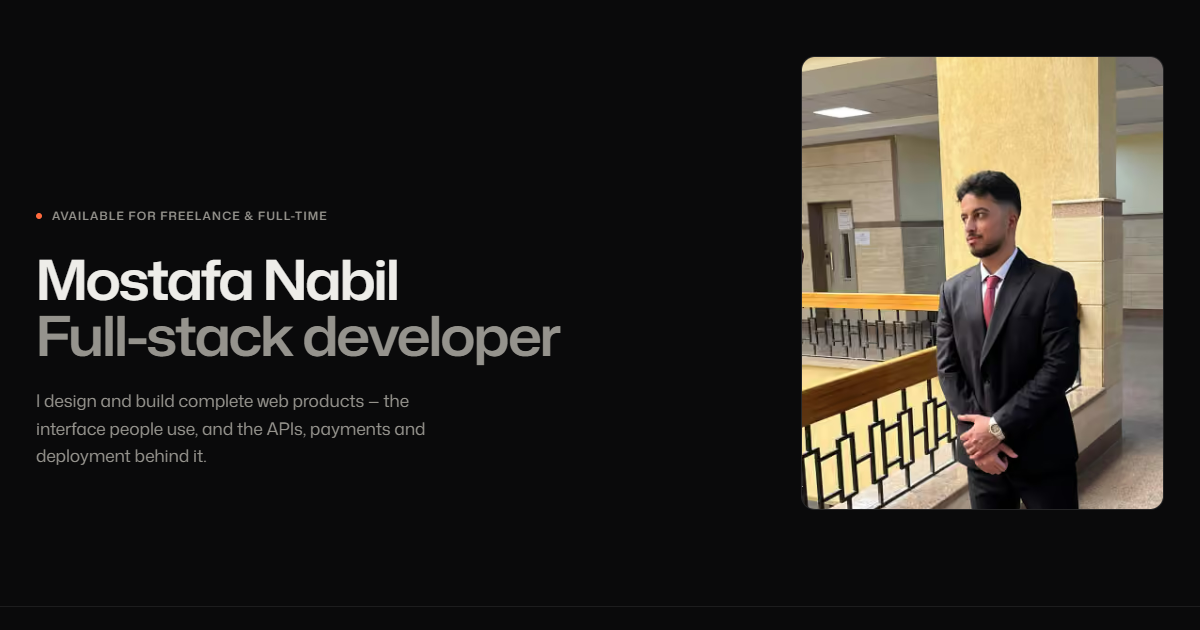
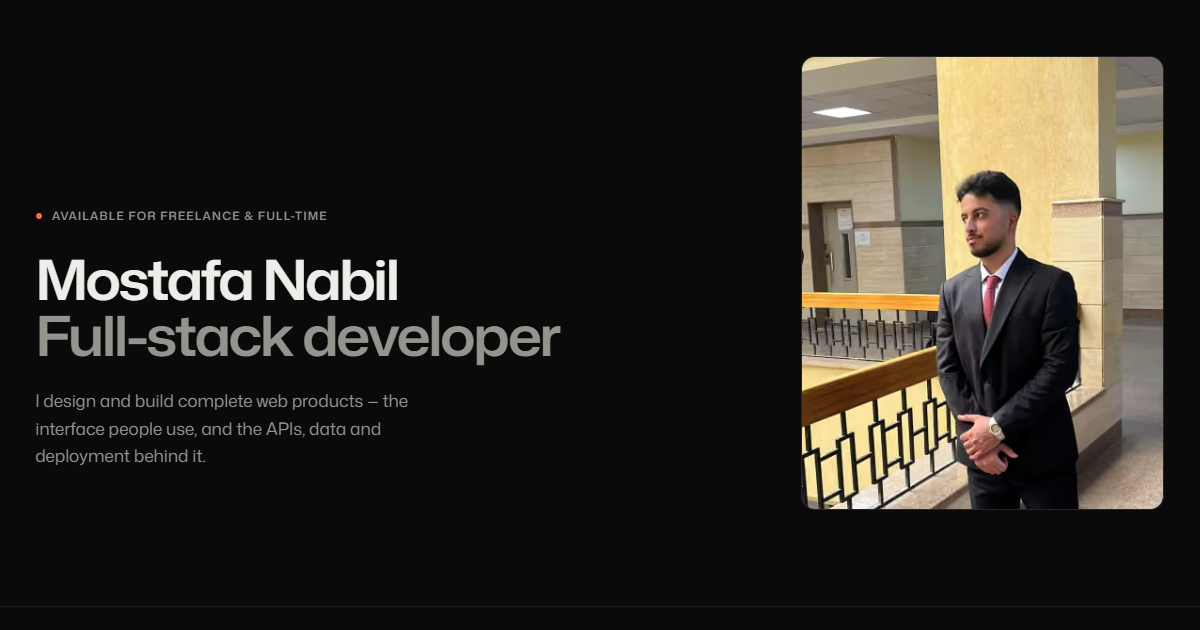
Remove payments from the portfolio
Drop Paymob/Stripe and payment claims from the hero, about, capabilities,
site description and every case study. Sections that depended on payments
now describe server-side pricing, stock reservations and idempotent orders
instead. Also drop the unsupported "Shipping integrations" capability and
refresh the share image with the new hero line.

Changed region(s): [[0.0308, 0.6333, 0.37, 0.754]]

diff --git a/src/content/projects.ts b/src/content/projects.ts
@@ -92,7 +92,7 @@ export const projects: Project[] = [
     summary:
       "Memberships, class booking and an admin dashboard for a gym with several branches — in English and Arabic.",
     role: "Design & full-stack development",
-    scope: ["Interface design", "Frontend", "API & data model", "Payments", "Deployment"],
+    scope: ["Interface design", "Frontend", "API & data model", "Deployment"],
     stack: ["Next.js", "NestJS", "MongoDB"],
     links: {
       live: "https://prime-x-dusky.vercel.app",
@@ -107,18 +107,18 @@ export const projects: Project[] = [
       "The whole product works in English and Arabic — with a genuinely right-to-left layout, not a translated left-to-right one.",
     ],
     problem: [
-      "A gym’s offer is more complicated than a price list. Plans differ by branch access, class credits, freeze days and guest passes; classes have a fixed number of places; and a lot of the business still happens at the front desk, in cash, over WhatsApp.",
+      "A gym’s offer is more complicated than a price list. Plans differ by branch access, class credits, freeze days and guest passes; classes have a fixed number of places; and a lot of the business still happens at the front desk and over WhatsApp.",
       "The site had to sell memberships clearly without pretending the gym is an online-only business — and staff needed one place to see a member’s entire history.",
     ],
     solution: [
       "I modelled the gym the way it actually operates — branches, plans, trainers, class types and recurring weekly schedules — and built every page on top of that model instead of around static content.",
-      "The join flow takes card payments through Paymob or records cash paid at the desk. Each member-facing capability sits behind its own feature flag on both frontend and backend, so the gym could launch as a showcase that routes enquiries to WhatsApp, with online sales and booking ready to switch on without a rebuild.",
+      "Each member-facing capability — joining online, class booking and member accounts — sits behind its own feature flag on both frontend and backend, so the gym could launch as a showcase that routes enquiries to WhatsApp, with the full join-and-book flow ready to switch on without a rebuild.",
     ],
     features: [
-      { title: "Plans & join funnel", text: "Class-credit or unlimited plans, single- or all-branch tiers, freeze days and guest passes. Pay by card, or in cash at the desk." },
+      { title: "Plans & join funnel", text: "Class-credit or unlimited plans, single- or all-branch tiers, freeze days and guest passes, with a guided join flow from plan to account." },
       { title: "Timetable & booking", text: "Sessions generated from weekly rules. Booking can never exceed capacity, and credits come back when a class is cancelled." },
-      { title: "Member account", text: "Membership status, upcoming and past classes, payment history, profile and notification settings." },
-      { title: "Admin dashboard", text: "KPIs, branches, plans, trainers and schedules; members with their full history; cash payments, content editing, an enquiry inbox and an audit log." },
+      { title: "Member account", text: "Membership status, upcoming and past classes, profile and notification settings." },
+      { title: "Admin dashboard", text: "KPIs, branches, plans, trainers and schedules; members with their full history; content editing, an enquiry inbox and an audit log." },
       { title: "English & Arabic", text: "Two languages with a right-to-left layout designed for Arabic, not mirrored as an afterthought." },
       { title: "Accounts", text: "Email and password with OTP verification, Google sign-in and password reset." },
     ],
@@ -126,21 +126,20 @@ export const projects: Project[] = [
       text: "A Next.js App Router frontend on Vercel talks to a NestJS API on Render, backed by MongoDB Atlas. The split is deliberate: the API runs scheduled jobs in-process, which needs a long-lived server that a serverless platform would never keep awake.",
       flow: webFlow("App Router", "REST"),
       services: [
-        { label: "Paymob", detail: "Card payments, HMAC-verified callbacks" },
         { label: "Brevo", detail: "Transactional email over HTTP" },
         { label: "Google", detail: "OAuth sign-in" },
       ],
       decisions: [
         { title: "No overselling, even under load", text: "A booking claims its seat with one conditional update that only succeeds while the booked count is below capacity. Two members racing for the last place can’t both win." },
         { title: "Sessions that rotate", text: "Tokens live in httpOnly cookies with per-device refresh-token rotation and reuse detection. Deactivated accounts are rejected on every rotation, not just at login." },
-        { title: "Flags, not forks", text: "Membership sales, class booking and member accounts are each gated separately — which is how one codebase runs today in showcase mode." },
+        { title: "Flags, not forks", text: "Online joining, class booking and member accounts are each gated separately — which is how one codebase runs today in showcase mode." },
         { title: "Email that arrives", text: "Free Render instances block SMTP ports, so production mail goes through Brevo’s HTTP API and the active transport is logged at startup." },
       ],
     },
     stackDetail: [
       { group: "Frontend", items: ["Next.js 16", "React 19", "TypeScript", "TanStack Query", "Tailwind CSS v4", "shadcn/ui", "next-intl"] },
       { group: "Backend", items: ["NestJS 10", "MongoDB & Mongoose", "Passport (JWT, Google)", "Zod", "Swagger", "Scheduled jobs"] },
-      { group: "Services", items: ["Paymob", "Brevo", "Nodemailer"] },
+      { group: "Services", items: ["Brevo", "Nodemailer"] },
       { group: "Infrastructure", items: ["Vercel", "Render", "MongoDB Atlas"] },
     ],
     screens: [
@@ -164,11 +163,11 @@ export const projects: Project[] = [
     challenges: [
       { title: "Cross-site cookies in production", text: "Locally the site and API share localhost. Deployed, they sit on different domains and every request becomes cross-site — Lax cookies silently stopped being sent, so login appeared to work and everything after it failed. Cookies now switch to SameSite=None; Secure in production." },
       { title: "Images that pointed at a laptop", text: "Early data stored absolute localhost image URLs, which in production resolved to the visitor’s own machine. Images are now root-relative, and a script checks every path in the database against committed files before each deploy." },
-      { title: "Selling before selling", text: "The gym wasn’t ready to take payments online on day one. Gating each capability separately let it launch with WhatsApp enquiries, without dead pages or a second codebase." },
+      { title: "Launching before everything is on", text: "The gym wanted to go live before running memberships online. Gating each capability separately let it launch with WhatsApp enquiries, without dead pages or a second codebase." },
     ],
     result: [
       "PrimeX is live as a bilingual showcase site, with the complete online join-and-book flow built and ready to switch on.",
-      "Its foundations — authentication, payments, the admin area and the deployment setup — became the base I build new products on.",
+      "Its foundations — authentication, the admin area and the deployment setup — became the base I build new products on.",
     ],
   },
   {
@@ -178,10 +177,10 @@ export const projects: Project[] = [
     kind: "Full-stack e-commerce",
     year: "2026",
     summary:
-      "A complete online store — catalogue, cart, Stripe checkout and an admin API — seeded with a real-sized catalogue.",
+      "A complete online store — catalogue, cart, checkout and an admin API — seeded with a real-sized catalogue.",
     role: "Full-stack development",
-    scope: ["Frontend", "REST API", "Payments", "Email", "Deployment"],
-    stack: ["Next.js", "NestJS", "Stripe"],
+    scope: ["Frontend", "REST API", "Email", "Deployment"],
+    stack: ["Next.js", "NestJS", "MongoDB"],
     links: {
       live: "https://novacart-acme-4d41.vercel.app",
       github: "https://github.com/mostafanabil11/E-commerce",
@@ -195,31 +194,29 @@ export const projects: Project[] = [
       "It ships with a seed dataset — 56 products across 10 categories, 60 subcategories and 54 brands, with 332 reviews — so a fresh clone is a fully stocked shop rather than an empty template.",
     ],
     problem: [
-      "Most portfolio stores stop at the product grid. The hard parts of commerce live elsewhere: prices the client can’t tamper with, stock that stays correct, payments confirmed by the provider instead of the browser, and accounts and emails that behave like a real shop’s.",
+      "Most portfolio stores stop at the product grid. The hard parts of commerce live elsewhere: prices the client can’t tamper with, stock that stays correct, catalogue data that can’t be lost by accident, and accounts and emails that behave like a real shop’s.",
     ],
     solution: [
-      "The API owns every number that matters. Carts are priced on the server with stock checks and coupons; orders reserve inventory when they’re placed and count a sale only once payment settles.",
-      "Checkout hands off to Stripe, and the order is confirmed by a signature-verified webhook — idempotently, so a replayed event changes nothing.",
+      "The API owns every number that matters. Carts are priced on the server with stock checks and coupons, and orders reserve inventory the moment they’re placed.",
+      "Around that core sit the parts a real shop needs: catalogue records that are soft-deleted with an audit trail, ratings kept current on every review, and an optional Redis cache the API can run without.",
     ],
     features: [
       { title: "Catalogue", text: "Live search, category and brand filters, sorting by price, rating, newest and best-selling, with pagination." },
       { title: "Product pages", text: "Image galleries with thumbnails, ratings and related products." },
       { title: "Cart & wishlist", text: "Server-calculated totals, stock checks and coupon support." },
-      { title: "Checkout", text: "Validated shipping details, then Stripe Checkout. Paymob is integrated on the API as well." },
+      { title: "Checkout", text: "Validated delivery details and order totals calculated by the server." },
       { title: "Accounts", text: "Sign-up, email verification that never blocks sign-in, and a three-step password reset." },
-      { title: "Admin API", text: "Catalogue management with image upload, soft deletes with restore, audit trails, order status and refunds." },
+      { title: "Admin API", text: "Catalogue management with image upload, soft deletes with restore, audit trails and order status management." },
     ],
     architecture: {
       text: "A Next.js 15 storefront on Vercel and a NestJS 11 API on Render with MongoDB. Redis caching is optional — the API keeps working when it isn’t there.",
       flow: webFlow("Storefront", "REST v1"),
       services: [
-        { label: "Stripe", detail: "Checkout + signed webhooks" },
-        { label: "Paymob", detail: "HMAC-SHA512 callbacks" },
         { label: "Brevo", detail: "EJS email templates" },
         { label: "Redis", detail: "Optional cache" },
       ],
       decisions: [
-        { title: "Webhooks are the source of truth", text: "Stripe events are verified against the raw request body and Paymob callbacks with HMAC-SHA512 before anything changes. Settlement is idempotent." },
+        { title: "Totals the browser can’t touch", text: "Carts are priced on the server against current prices, stock and coupons, so nothing the client sends can change what an order costs." },
         { title: "Ratings stored, not computed", text: "Each product keeps its average rating and review count, recalculated on every review write, so listing pages never aggregate on read." },
         { title: "Nothing is really deleted", text: "Catalogue records are soft-deleted, can be restored, and keep a trail of who created, changed or removed them." },
         { title: "A cache that can disappear", text: "Redis speeds up hot reads when it’s available; when it isn’t, requests fall through to MongoDB instead of failing." },
@@ -228,7 +225,7 @@ export const projects: Project[] = [
     stackDetail: [
       { group: "Frontend", items: ["Next.js 15", "React 19", "TypeScript", "Tailwind CSS v4", "shadcn/ui", "NextAuth", "React Hook Form", "Zod", "Framer Motion"] },
       { group: "Backend", items: ["NestJS 11", "MongoDB & Mongoose", "JWT & bcrypt", "class-validator", "Multer", "ioredis", "Swagger"] },
-      { group: "Services", items: ["Stripe", "Paymob", "Brevo"] },
+      { group: "Services", items: ["Brevo", "Redis"] },
       { group: "Infrastructure", items: ["Vercel", "Render", "MongoDB"] },
     ],
     screens: [
@@ -244,12 +241,12 @@ export const projects: Project[] = [
       },
     ],
     challenges: [
-      { title: "Trusting the right party", text: "A successful redirect back from Stripe proves nothing. Orders become paid only when a verified webhook says so, and duplicate deliveries are ignored." },
+      { title: "Stock you can believe", text: "Inventory is reserved as soon as an order is placed, not later, so the stock a shopper sees is stock that’s actually available." },
       { title: "Verification without friction", text: "A code is emailed at sign-up, but the account is usable immediately; a dismissible banner nudges instead of a wall that loses customers." },
       { title: "A store you can reproduce", text: "A versioned catalogue snapshot with local imagery rebuilds the whole shop from one command — the difference between a demo and a working product." },
     ],
     result: [
-      "NovaCart works end to end: browse, add to cart, pay with Stripe in test mode and receive a confirmed order — with Swagger documentation for every endpoint.",
+      "NovaCart works end to end: browse, search, add to cart and place an order — with Swagger documentation for every endpoint.",
     ],
   },
   {
@@ -259,10 +256,10 @@ export const projects: Project[] = [
     kind: "Restaurant ordering",
     year: "2026",
     summary:
-      "Direct online ordering for a restaurant: a customisable menu, guest checkout, card or cash on delivery, and order tracking.",
+      "Direct online ordering for a restaurant: a customisable menu, guest checkout and order tracking, in Arabic and English.",
     role: "Design & full-stack development",
-    scope: ["Interface design", "Frontend", "API & data model", "Payments", "Deployment"],
-    stack: ["Next.js", "NestJS", "Paymob"],
+    scope: ["Interface design", "Frontend", "API & data model", "Deployment"],
+    stack: ["Next.js", "NestJS", "MongoDB"],
     links: {
       live: "https://fire-house-wnhg.vercel.app",
       github: "https://github.com/mostafanabil11/fire-house",
@@ -273,7 +270,7 @@ export const projects: Project[] = [
     shotAlt: "Fire House homepage: burgers and loaded fries under the headline “Big flavour. Your way.”",
     overview: [
       "Fire House is an ordering website for a burger and fried-chicken kitchen — the kind of restaurant that gives away a share of every order to delivery apps.",
-      "Customers browse the menu, customise each dish, pay by card or cash on delivery and follow their order, without creating an account. The kitchen runs the menu, stock and orders from an admin area.",
+      "Customers browse the menu, customise each dish, place an order and follow it, without creating an account. The kitchen runs the menu, stock and orders from an admin area.",
     ],
     problem: [
       "A menu isn’t a product catalogue. The same burger can be ordered as a combo, loaded, with extra sauces or with a note for the kitchen — and every combination has its own price.",
@@ -281,21 +278,20 @@ export const projects: Project[] = [
     ],
     solution: [
       "I built menu items around variants and modifier groups — meal upgrades, add-ons and sauces — that the server resolves and prices. Each cart line is identified by a hash of the dish, its variant, its sorted options and its note, so identical meals merge and different ones stay separate.",
-      "Checkout reserves stock and creates orders idempotently. Cards go through Paymob with HMAC-verified callbacks; cash on delivery is a first-class option, not a fallback.",
+      "Checkout reserves stock and creates orders idempotently, so a double tap never becomes a second order — and guests can follow their order with nothing more than its number and their email.",
     ],
     features: [
       { title: "Customisable menu", text: "Categories, search, and dishes with variants, optional upgrades, add-ons and a note for the kitchen." },
-      { title: "Guest checkout", text: "Order without an account; sign in only for saved addresses and history." },
-      { title: "Card or cash", text: "Paymob card payments, or cash on delivery." },
+      { title: "Guest checkout", text: "Order without an account — checkout needs only delivery details." },
+      { title: "Optional accounts", text: "Sign in with email or Google for saved addresses and order history." },
       { title: "Order tracking", text: "Look up any order with its number and the email used at checkout." },
       { title: "Arabic & English", text: "A language switch across the whole storefront." },
       { title: "Kitchen admin", text: "Dashboard, menu and stock movements, orders, coupons, customers, reviews, settings and an audit log." },
     ],
     architecture: {
-      text: "The same split as my other commerce builds — Next.js on Vercel, NestJS on Render, MongoDB Atlas — with a scheduler in the API that releases stock held by abandoned card payments every minute.",
+      text: "The same split as my other commerce builds — Next.js on Vercel, NestJS on Render, MongoDB Atlas — with a scheduler in the API that releases stock held by unfinished checkouts every minute.",
       flow: webFlow("Storefront", "REST"),
       services: [
-        { label: "Paymob", detail: "Card payments, HMAC callbacks" },
         { label: "Brevo", detail: "Order emails" },
         { label: "Google", detail: "OAuth sign-in" },
       ],
@@ -303,13 +299,13 @@ export const projects: Project[] = [
         { title: "The server prices the meal", text: "The browser only sends identifiers. Prices, options and availability are re-read from the database on every cart change." },
         { title: "Deterministic cart lines", text: "A SHA-256 key over dish, variant, sorted modifiers and a normalised note decides whether two additions are the same line." },
         { title: "Idempotent orders", text: "Checkout carries an idempotency key, so a double tap or a retried request returns the existing order instead of creating a second one." },
-        { title: "Stock that comes back", text: "Card checkouts reserve stock; a scheduled job releases reservations from abandoned payments — the reason the API runs on a long-lived server." },
+        { title: "Stock that comes back", text: "Checkouts reserve stock; a scheduled job releases reservations that are never completed — the reason the API runs on a long-lived server." },
       ],
     },
     stackDetail: [
       { group: "Frontend", items: ["Next.js 16", "React 19", "TypeScript", "TanStack Query", "Zustand", "Tailwind CSS v4", "shadcn/ui", "React Hook Form"] },
-      { group: "Backend", items: ["NestJS 10", "MongoDB & Mongoose", "JWT with refresh rotation", "Google OAuth", "Zod", "Swagger", "Scheduled jobs"] },
-      { group: "Services", items: ["Paymob", "Brevo"] },
+      { group: "Backend", items: ["NestJS 10", "MongoDB & Mongoose", "JWT with refresh rotation", "Zod", "Swagger", "Scheduled jobs"] },
+      { group: "Services", items: ["Brevo", "Google OAuth"] },
       { group: "Infrastructure", items: ["Vercel", "Render", "MongoDB Atlas"] },
     ],
     screens: [
@@ -327,7 +323,7 @@ export const projects: Project[] = [
     ],
     challenges: [
       { title: "Customisation without chaos", text: "Letting people change everything about a dish multiplies the ways a price can go wrong. Resolving every option on the server, and validating each group’s rules there, kept the client simple and the totals exact." },
-      { title: "Abandoned payments", text: "A customer who opened the card form and walked away was holding stock hostage. Time-boxed reservations, released by a scheduled job, fixed it." },
+      { title: "Abandoned checkouts", text: "A customer who started checking out and walked away was holding stock hostage. Time-boxed reservations, released by a scheduled job, fixed it." },
       { title: "Email on free hosting", text: "Render’s free tier blocks SMTP, so order emails go out through Brevo’s HTTP API in production." },
     ],
     result: [
@@ -342,10 +338,10 @@ export const projects: Project[] = [
     kind: "Fashion e-commerce",
     year: "2026",
     summary:
-      "An online store for a monochrome clothing label — sizes and colours, sale pricing, card or cash checkout, and a full admin.",
+      "An online store for a monochrome clothing label — sizes and colours, sale pricing, customer accounts and a full admin.",
     role: "Design & full-stack development",
-    scope: ["Interface design", "Frontend", "API & data model", "Payments", "Deployment"],
-    stack: ["Next.js", "NestJS", "Paymob"],
+    scope: ["Interface design", "Frontend", "API & data model", "Deployment"],
+    stack: ["Next.js", "NestJS", "MongoDB"],
     links: {
       live: "https://valiant-seven.vercel.app",
       github: "https://github.com/mostafanabil11/Valiant-clothing-brand",
@@ -356,20 +352,20 @@ export const projects: Project[] = [
     shotAlt: "Valiant homepage: the wordmark above a black-and-white photo of tailored clothes on a rail.",
     overview: [
       "Valiant is an online store for a menswear and womenswear label with a quiet, monochrome identity.",
-      "It covers the whole commercial loop: a catalogue with sizes, colours and sale pricing; checkout by card or cash on delivery; order tracking; and an admin area for running the shop day to day.",
+      "It covers the whole commercial loop: a catalogue with sizes, colours and sale pricing; checkout with coupons; order tracking; and an admin area for running the shop day to day.",
     ],
     problem: [
-      "Fashion stores fail in the details — a size that’s sold out but still addable, a sale price that changes at checkout, an abandoned payment holding the last medium.",
+      "Fashion stores fail in the details — a size that’s sold out but still addable, a sale price that changes at checkout, an abandoned checkout holding the last medium.",
       "The brand also needed its restraint carried through every page, down to the size selector, not just the homepage.",
     ],
     solution: [
-      "I built a server-authoritative commerce core: the cart re-reads prices and stock on every change, checkout reserves inventory and creates orders idempotently, and Paymob payments are confirmed by HMAC-verified webhooks.",
+      "I built a server-authoritative commerce core: the cart re-reads prices and stock on every change, checkout reserves inventory and creates orders idempotently, so a retried request never becomes a second order.",
       "On top of it, the storefront keeps to the brand’s black-and-white, editorial language — type, spacing and photography doing the work colour usually does.",
     ],
     features: [
       { title: "Catalogue", text: "Men’s and women’s collections, categories and subcategories, search, filters and sale pricing." },
       { title: "Product pages", text: "Size selection, colours linked across products, and a size guide." },
-      { title: "Checkout", text: "Paymob card payments or cash on delivery, with coupons." },
+      { title: "Checkout", text: "Server-calculated totals with coupons and saved addresses." },
       { title: "Customer accounts", text: "OTP-verified sign-up, Google sign-in, saved addresses, order history and a wishlist." },
       { title: "Retention", text: "Reviews, newsletter sign-up and back-in-stock notifications." },
       { title: "Admin", text: "Dashboard, products and stock movements, orders, customers, coupons, reviews, settings and an audit log." },
@@ -378,21 +374,20 @@ export const projects: Project[] = [
       text: "Next.js 16 on Vercel, a NestJS API on Render and MongoDB Atlas. The server validates its environment on boot and refuses to start with a broken configuration.",
       flow: webFlow("Storefront", "REST"),
       services: [
-        { label: "Paymob", detail: "Card payments, HMAC callbacks" },
         { label: "Email", detail: "OTP & order mail" },
         { label: "Google", detail: "OAuth sign-in" },
       ],
       decisions: [
         { title: "Never trust the client", text: "The browser sends product and variant identifiers, never prices. Totals are always calculated on the server." },
-        { title: "Reservations with expiry", text: "Card checkouts hold stock until payment settles or the hold expires; a scheduled job returns abandoned stock to the shelf." },
-        { title: "Webhook-confirmed payments", text: "Orders are marked paid only by Paymob callbacks that pass HMAC verification." },
-        { title: "Fail at boot, not at checkout", text: "Configuration is validated on startup. Card checkout stays off until every Paymob key is present, instead of failing in front of a customer." },
+        { title: "Reservations with expiry", text: "Checkouts hold stock until the order is confirmed or the hold expires; a scheduled job returns abandoned stock to the shelf." },
+        { title: "One request, one order", text: "Every checkout carries an idempotency key. Repeating it returns the order that already exists rather than placing another." },
+        { title: "Fail at boot, not at checkout", text: "Configuration is validated on startup, so a missing setting stops the deploy instead of failing in front of a customer." },
       ],
     },
     stackDetail: [
       { group: "Frontend", items: ["Next.js 16", "React 19", "TypeScript", "TanStack Query", "Zustand", "Tailwind CSS v4", "shadcn/ui", "React Hook Form"] },
-      { group: "Backend", items: ["NestJS 10", "MongoDB & Mongoose", "JWT with refresh rotation", "Google OAuth", "Zod", "Swagger"] },
-      { group: "Services", items: ["Paymob", "Nodemailer"] },
+      { group: "Backend", items: ["NestJS 10", "MongoDB & Mongoose", "JWT with refresh rotation", "Zod", "Swagger", "Scheduled jobs"] },
+      { group: "Services", items: ["Nodemailer", "Google OAuth"] },
       { group: "Infrastructure", items: ["Vercel", "Render", "MongoDB Atlas"] },
     ],
     screens: [

diff --git a/src/components/about.tsx b/src/components/about.tsx
@@ -27,12 +27,12 @@ export function About() {
           <Reveal className="mt-8 grid gap-5 md:grid-cols-2 md:gap-[var(--col-gap)]">
             <p className="t-body text-muted">
               Most of my projects start with an empty repository and end in production. I design the interface, build
-              it in Next.js, write the API in NestJS, model the data in MongoDB, connect the payments and ship it —
-              usually to Vercel and Render.
+              it in Next.js, write the API in NestJS, model the data in MongoDB and ship it — usually to Vercel and
+              Render.
             </p>
             <p className="t-body text-muted">
               Doing all of it is how I keep both halves honest: a layout that feels calm on a phone, and an order that
-              can never be charged twice. I&apos;d rather get fewer things exactly right than ship more that almost work.
+              can never be placed twice. I&apos;d rather get fewer things exactly right than ship more that almost work.
             </p>
           </Reveal>
 

diff --git a/src/components/hero.tsx b/src/components/hero.tsx
@@ -5,7 +5,7 @@ import { RevealImage } from "./reveal-image";
 
 const facts = [
   { term: "Stack", detail: "Next.js · NestJS · MongoDB" },
-  { term: "Payments", detail: "Paymob · Stripe" },
+  { term: "Deployment", detail: "Vercel · Render" },
   { term: "Commerce", detail: "Custom stores · Shopify" },
   { term: "Based in", detail: "Egypt · Open to remote" },
 ];
@@ -51,7 +51,7 @@ export function Hero() {
           </h1>
 
           <p className="fade-late t-lead mt-6 max-w-[42ch] text-muted" style={delay(450)}>
-            I design and build complete web products — the interface people use, and the APIs, payments and deployment
+            I design and build complete web products — the interface people use, and the APIs, data and deployment
             behind it.
           </p>
 

diff --git a/src/components/capabilities.tsx b/src/components/capabilities.tsx
@@ -4,7 +4,7 @@ import { SectionLabel } from "./section-label";
 const groups = [
   { name: "Frontend", items: ["Next.js", "React", "TypeScript", "Tailwind CSS", "Responsive UI", "Animation"] },
   { name: "Backend", items: ["Node.js", "NestJS", "Express", "REST APIs", "Authentication", "MongoDB"] },
-  { name: "Commerce", items: ["Shopify", "Liquid", "E-commerce", "Payment integrations", "Shipping integrations"] },
+  { name: "Commerce", items: ["Shopify", "Liquid", "E-commerce", "Online ordering", "Admin dashboards"] },
   { name: "Tools & deployment", items: ["Git", "GitHub", "Vercel", "Render", "MongoDB Atlas"] },
 ];
 

diff --git a/src/lib/site.ts b/src/lib/site.ts
@@ -12,7 +12,7 @@ export const site = {
   year: "2026",
   url: resolveSiteUrl(),
   description:
-    "Mostafa Nabil is a full-stack developer in Egypt who designs and builds complete web products — Next.js interfaces, NestJS APIs, payments and deployment.",
+    "Mostafa Nabil is a full-stack developer in Egypt who designs and builds complete web products — Next.js interfaces, NestJS APIs, data models and deployment.",
   email: "mostafa.nabil.arafa01@gmail.com",
   links: {
     github: "https://github.com/mostafanabil11",
